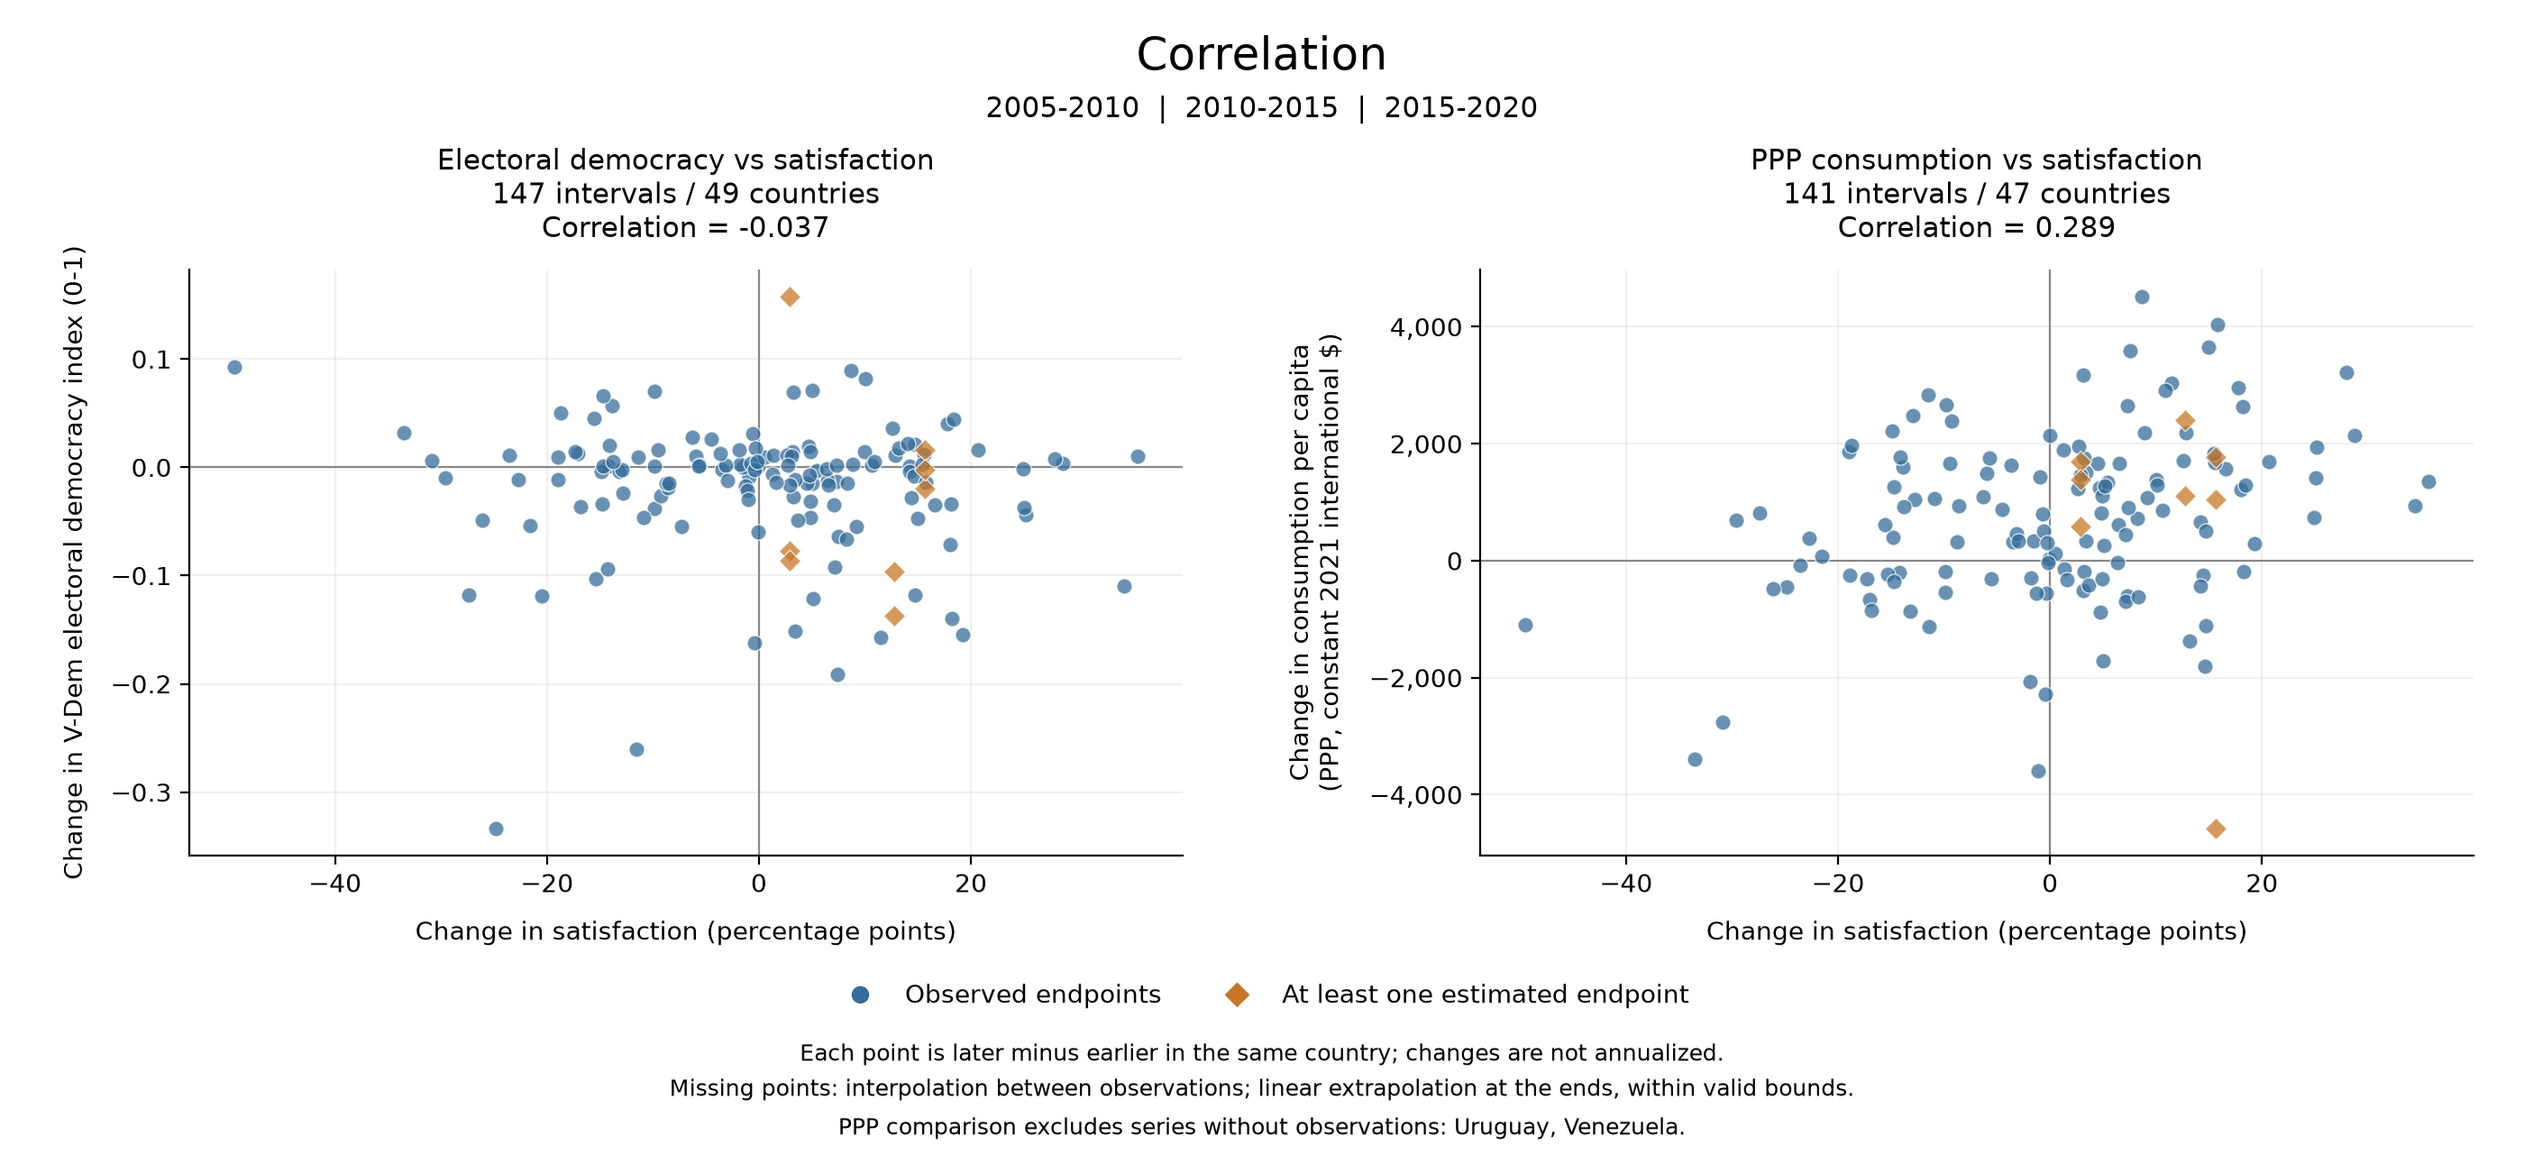
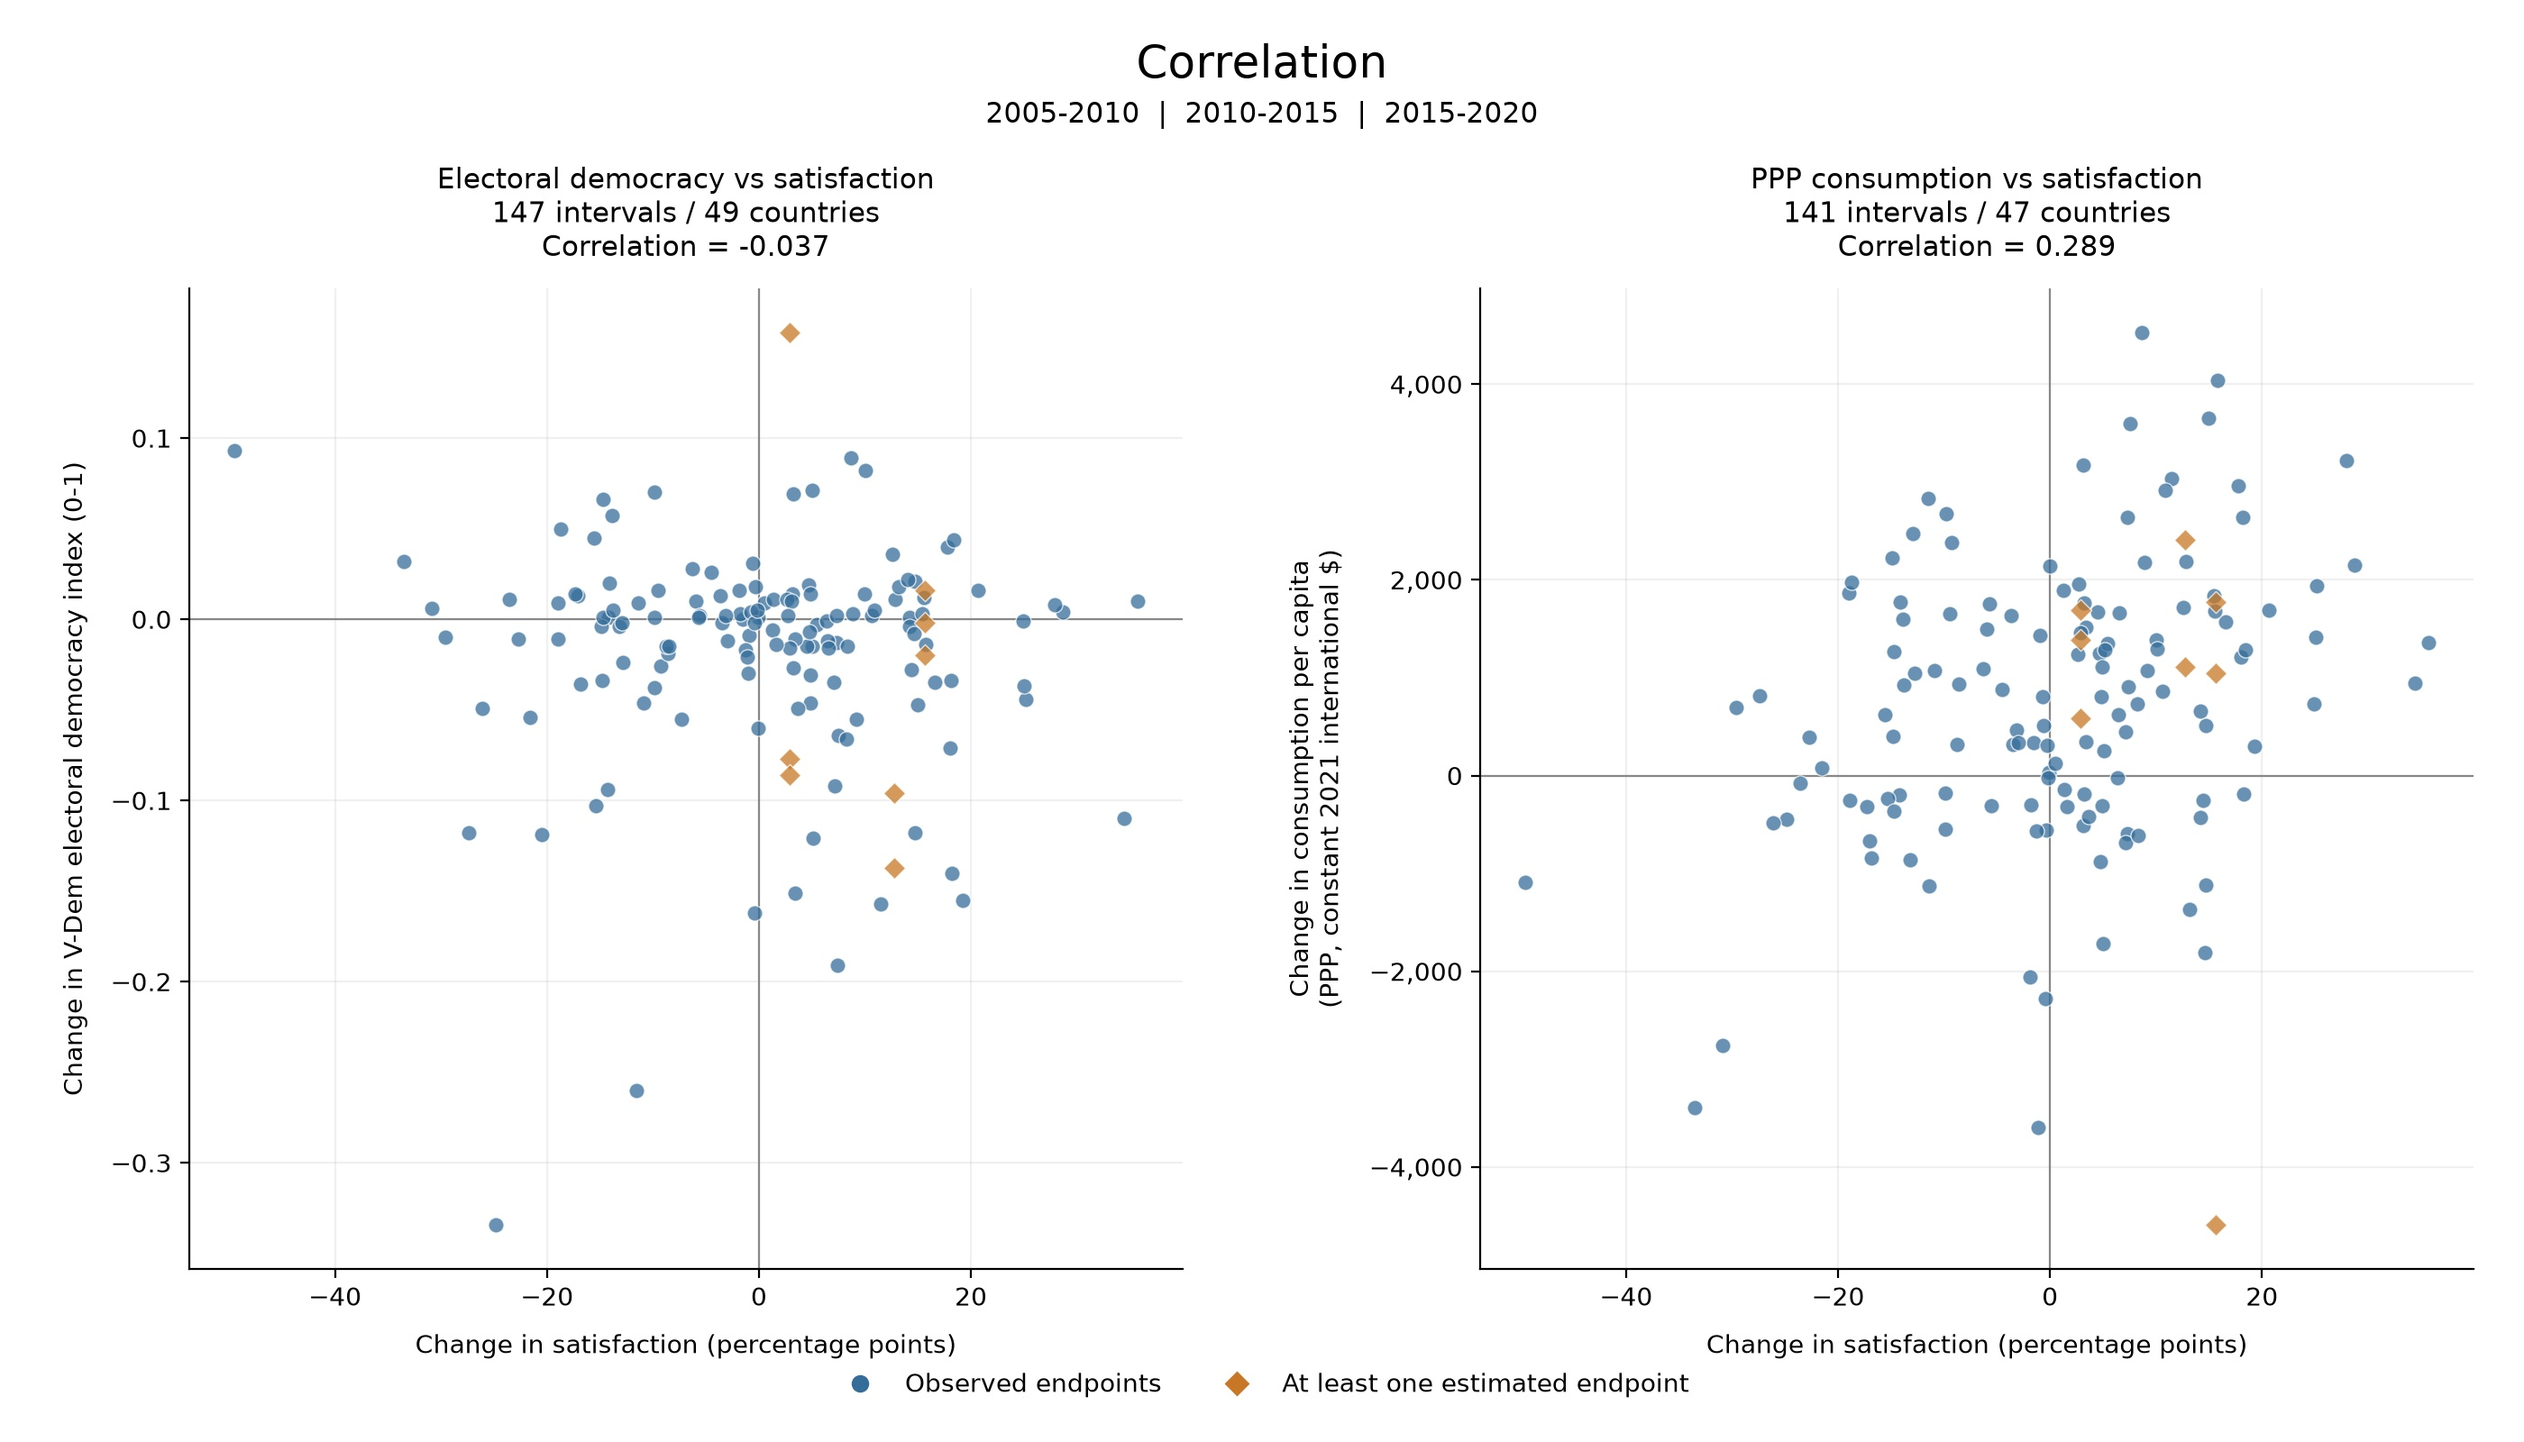
Enlarge correlation chart and remove footer notes

diff --git a/correlation.py b/correlation.py
@@ -249,7 +249,7 @@ def prepare_analysis(eurobarometer, latin_america, vdem, ppp):
     return panel, changes, analyze(changes), audit
 
 
-def make_graph(changes, results, output_path, audit):
+def make_graph(changes, results, output_path):
     import matplotlib
     matplotlib.use("Agg")
     import matplotlib.pyplot as plt
@@ -263,9 +263,9 @@ def make_graph(changes, results, output_path, audit):
     number = lambda value: f"{value:.3f}" if np.isfinite(value) else "n/a"
     with plt.rc_context({"font.size": 10, "axes.spines.top": False,
                          "axes.spines.right": False, "savefig.facecolor": "white"}):
-        fig, axes = plt.subplots(1, 2, figsize=(14, 6.5), sharex=True)
+        fig, axes = plt.subplots(1, 2, figsize=(14, 8), sharex=True)
         try:
-            fig.subplots_adjust(left=.075, right=.98, bottom=.27, top=.77, wspace=.30)
+            fig.subplots_adjust(left=.075, right=.98, bottom=.12, top=.80, wspace=.30)
             for ax, value in zip(axes, VALUES[1:]):
                 complete = comparison_data(changes, value)
                 stats = results.loc[results.comparison.eq(value)].iloc[0]
@@ -289,20 +289,13 @@ def make_graph(changes, results, output_path, audit):
                 if value == "ppp_consumption":
                     ax.yaxis.set_major_formatter(StrMethodFormatter("{x:,.0f}"))
             fig.suptitle("Correlation", fontsize=18, y=.97)
-            fig.text(.5, .90, "2005-2010  |  2010-2015  |  2015-2020", ha="center", fontsize=11)
+            fig.text(.5, .915, "2005-2010  |  2010-2015  |  2015-2020", ha="center", fontsize=11)
             handles = [Line2D([], [], marker="o", color="#356d9a", linestyle="none",
                               label="Observed endpoints"),
                        Line2D([], [], marker="D", color="#c77725", linestyle="none",
                               label="At least one estimated endpoint")]
-            fig.legend(handles=handles, loc="lower center", bbox_to_anchor=(.5, .12),
+            fig.legend(handles=handles, loc="lower center", bbox_to_anchor=(.5, .015),
                        ncol=2, frameon=False)
-            fig.text(.5, .095, "Each point is later minus earlier in the same country; changes are not annualized.",
-                     ha="center", fontsize=9)
-            fig.text(.5, .065, "Missing points: interpolation between observations; linear extrapolation at the ends, within valid bounds.",
-                     ha="center", fontsize=9)
-            if audit["ppp_unavailable"]:
-                fig.text(.5, .032, "PPP comparison excludes series without observations: "
-                         + ", ".join(audit["ppp_unavailable"]) + ".", ha="center", fontsize=9)
             output_path = Path(output_path)
             output_path.parent.mkdir(parents=True, exist_ok=True)
             fig.savefig(output_path, dpi=200, format="jpeg", pil_kwargs={"quality": 95})
@@ -339,7 +332,7 @@ def main(argv=None):
             args.eurobarometer, args.latin_america, args.vdem, args.ppp)
         print_report(panel, changes, results, audit)
         if not args.dry_run:
-            make_graph(changes, results, args.output, audit)
+            make_graph(changes, results, args.output)
             print(f"Saved {args.output.resolve()}")
     except (OSError, ValueError, ImportError, BadZipFile) as error:
         parser.error(str(error))
